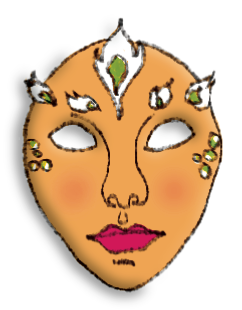
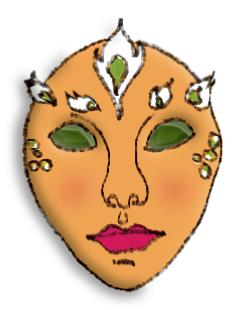
7 clicks; cover mask eyes; audio adjustments; zoomed camera (#14)
* - Added audio files into SOUNDS node
- Lowered overall lowdness and set looping on
- Intro is set to autoplay

* - Zoomed in camera

* - Added covered eye mask

* - Capitalised 'Click' in encounter

* - Added a vignette effect using a 2D light

* - Changed the title of the game to 'SHATTER'

* todo

* todo

* 7 clicks

---------

Changed region(s): [[0.6074, 0.3774, 0.8099, 0.4935], [0.2025, 0.3774, 0.405, 0.4935]]

diff --git a/Scripts/Main.cs b/Scripts/Main.cs
@@ -162,7 +162,7 @@ public partial class Main : Node2D
 		_currentTestPack = pack;
 
 		// Calculate allowed clicks based on pack sizes
-		int clicks = 10;
+		int clicks = 7;
 
 		GD.Print($"Starting test. Player pack: {GameManager.Instance?.PackSize}, NPC pack: {pack.MemberCount}, Clicks: {clicks}");
 
